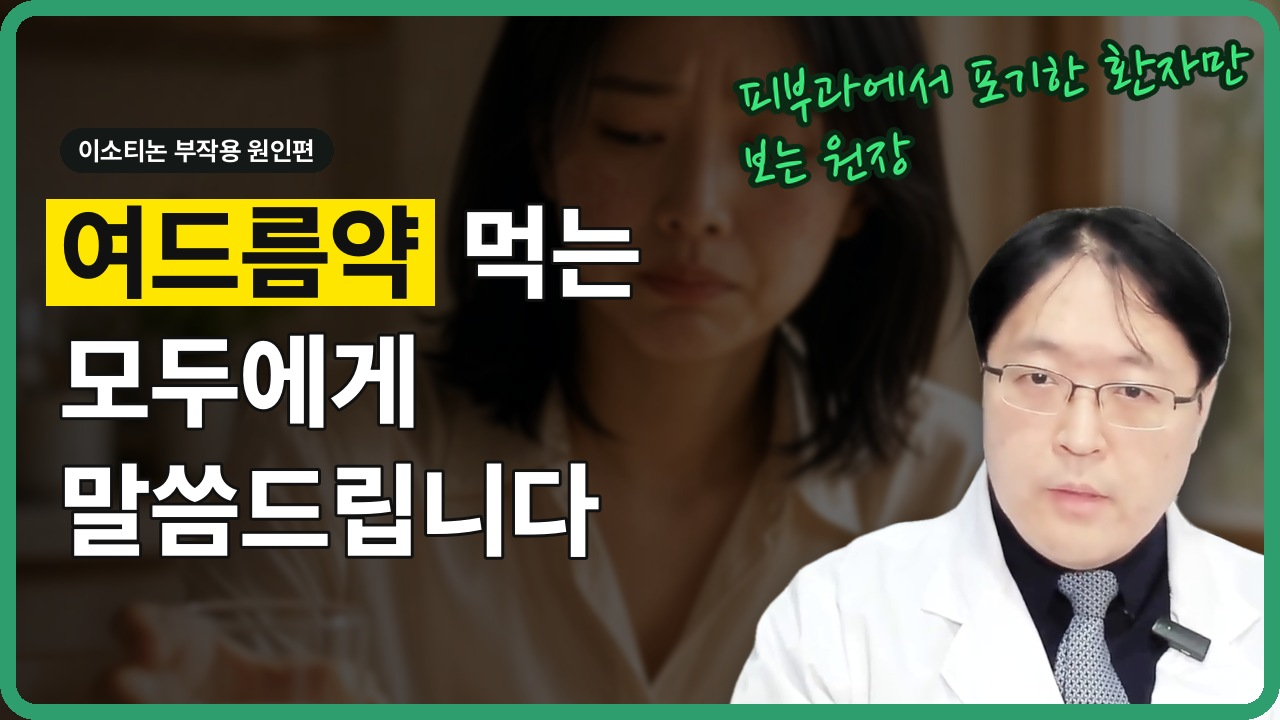
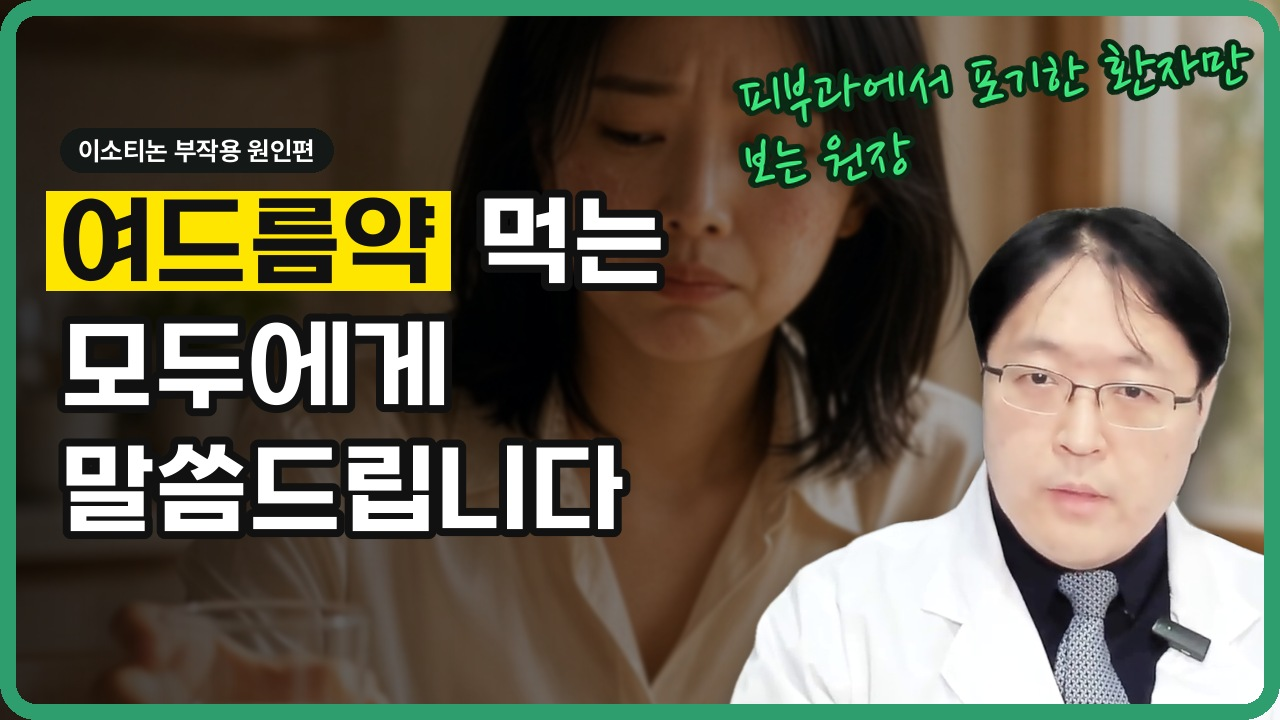
말하기형 썸네일: 어그로체 M, 굵은 테두리, 배경 밝게
Claude-Session: https://claude.ai/code/session_01W5aJ6RjiqXjewxs5XWe8qJ

diff --git a/scripts/make_thumbnail_talk.py b/scripts/make_thumbnail_talk.py
@@ -20,7 +20,7 @@ sys.path.insert(0, str(ROOT / "scripts"))
 from make_thumbnail import beautify  # noqa: E402
 
 W, H = 1280, 720
-BOLD = str(ROOT / "assets" / "fonts" / "Pretendard-ExtraBold.otf")
+BOLD = str(ROOT / "assets" / "fonts" / "SBAggroM.woff")  # 채널 메인 폰트 어그로체 M (2026-11-25 사용자)
 SEMI = str(ROOT / "assets" / "fonts" / "Pretendard-Bold.otf")
 HAND = str(ROOT / "assets" / "fonts" / "thumb" / "NanumPenScript-Regular.ttf")
 
@@ -52,7 +52,7 @@ def text_line(draw, x, y, parts, font, box_pad=(14, 6)):
             draw.text((x, y), txt, font=font, fill="#111111")
             x += w + box_pad[0] + 4
         else:
-            draw.text((x, y), txt, font=font, fill=color, stroke_width=3, stroke_fill="#111111")
+            draw.text((x, y), txt, font=font, fill=color, stroke_width=8, stroke_fill="#111111")  # 채널 썸네일처럼 굵은 검은 테두리
             x += w
 
 

diff --git a/CLAUDE.md b/CLAUDE.md
@@ -170,7 +170,7 @@
   원장님 사진은 `work/eyes.json`에서 눈을 크게 뜨고 입 다문 프레임을 고른다. 예: `deliverables/입주위염/썸네일_B_설정.json`.
 
 - 원장님 말하기형(`scripts/make_thumbnail_talk.py`, 2026-11-25 사용자 레퍼런스: 메이드영 '윤곽수술을 고민하는 모두에게 말씀드립니다'):
-  왼쪽에 굵은 흰 글자 3줄(핵심어만 노란 상자에 검은 글자, 예: '[여드름약] 먹는 / 모두에게 / 말씀드립니다'), 위에 작은 검은 머리말,
+  글자는 채널 톤대로 어그로체 M에 굵은 검은 테두리, 배경 인물은 밝게 보이게(dark 0.8, 2026-11-25 사용자). 왼쪽에 흰 글자 3줄(핵심어만 노란 상자에 검은 글자, 예: '[여드름약] 먹는 / 모두에게 / 말씀드립니다'), 위에 작은 검은 머리말,
   오른쪽에 원장님 누끼를 크게, 원장님 머리 위에 초록 필기체(나눔손글씨 펜) 한마디('피부과에서 포기한 환자만 보는 원장'),
   배경은 그 편 장면 사진을 어둡고 살짝 흐리게, 테두리는 초록 둥근 틀. 예: `deliverables/이소티논_원인편/썸네일_C_설정.json`.
 
